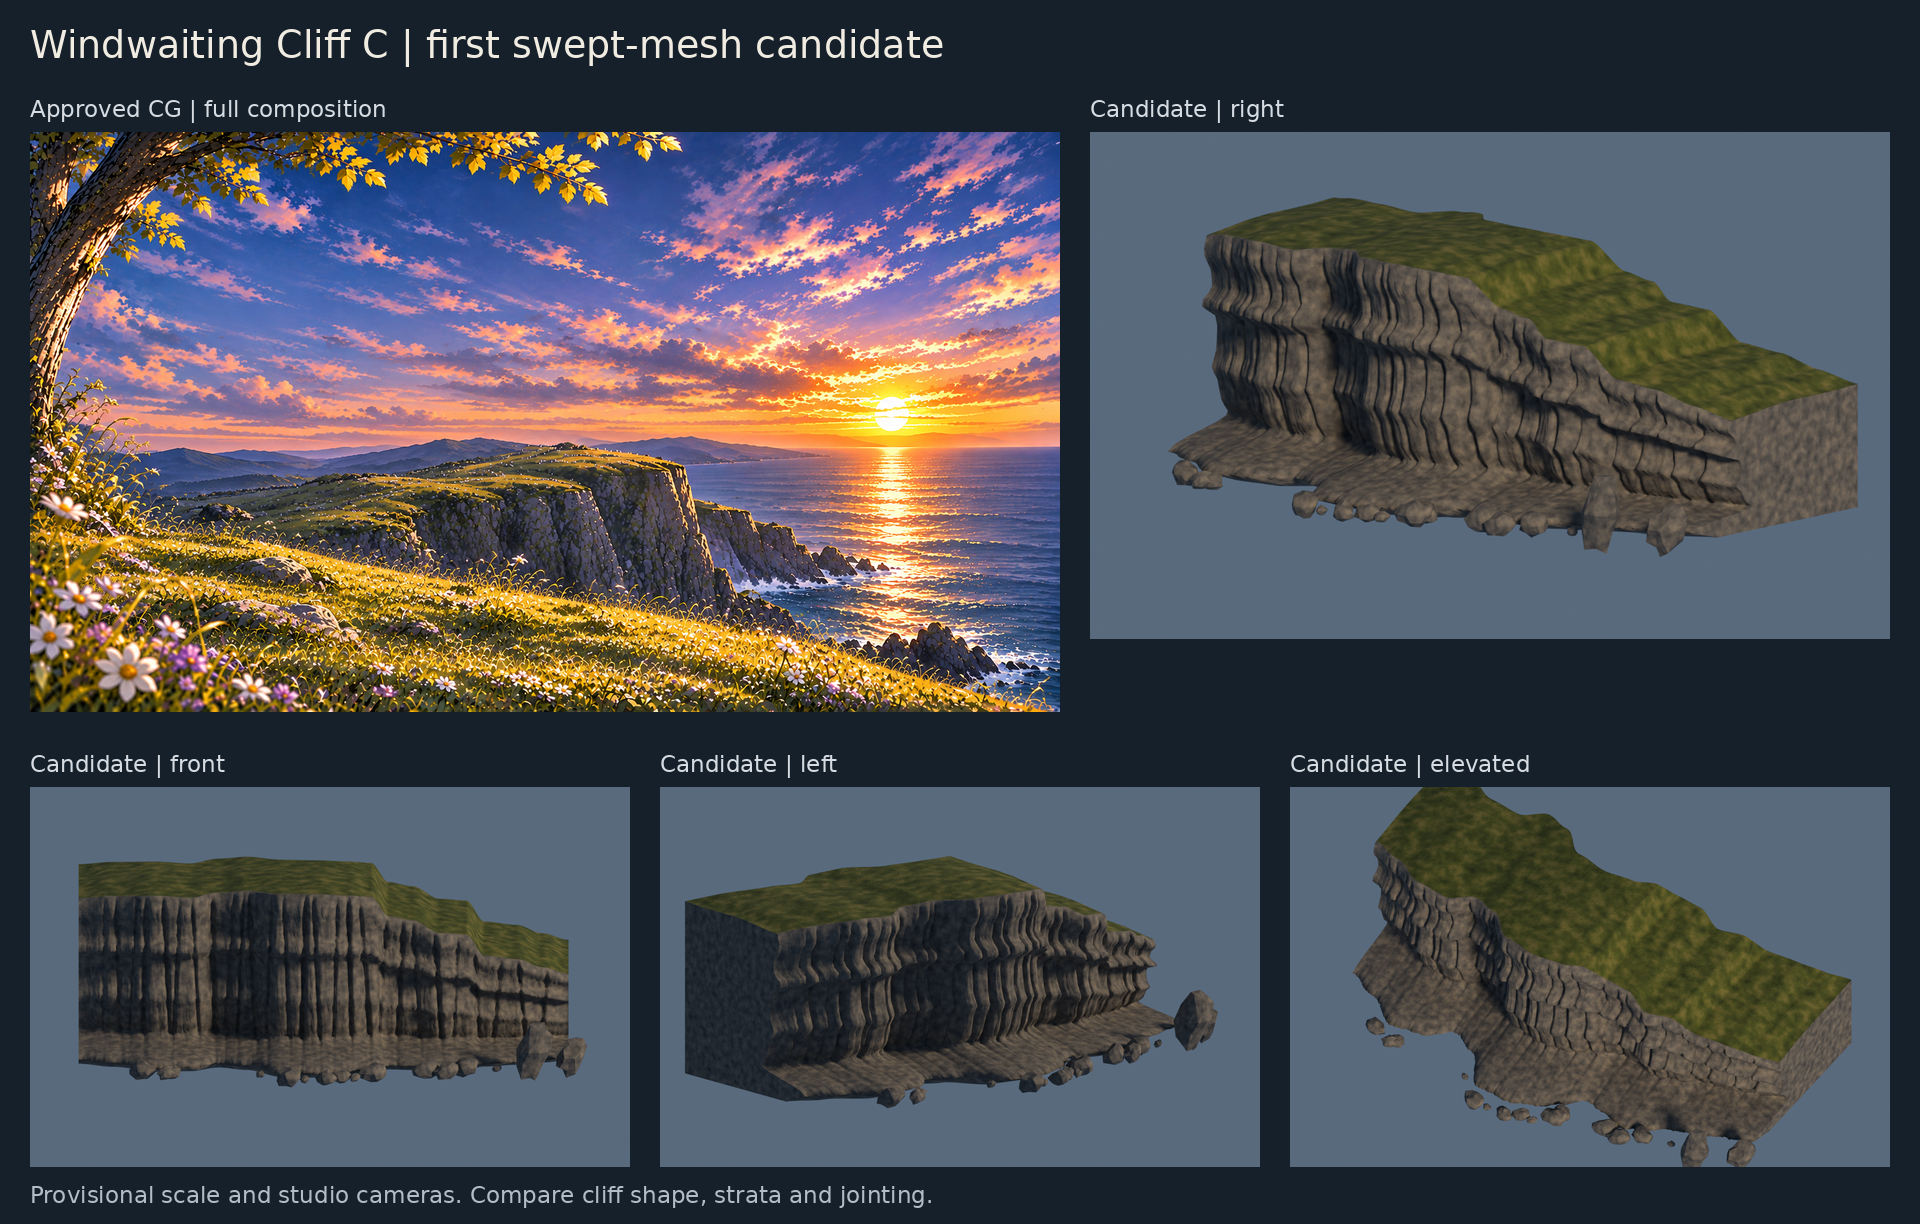
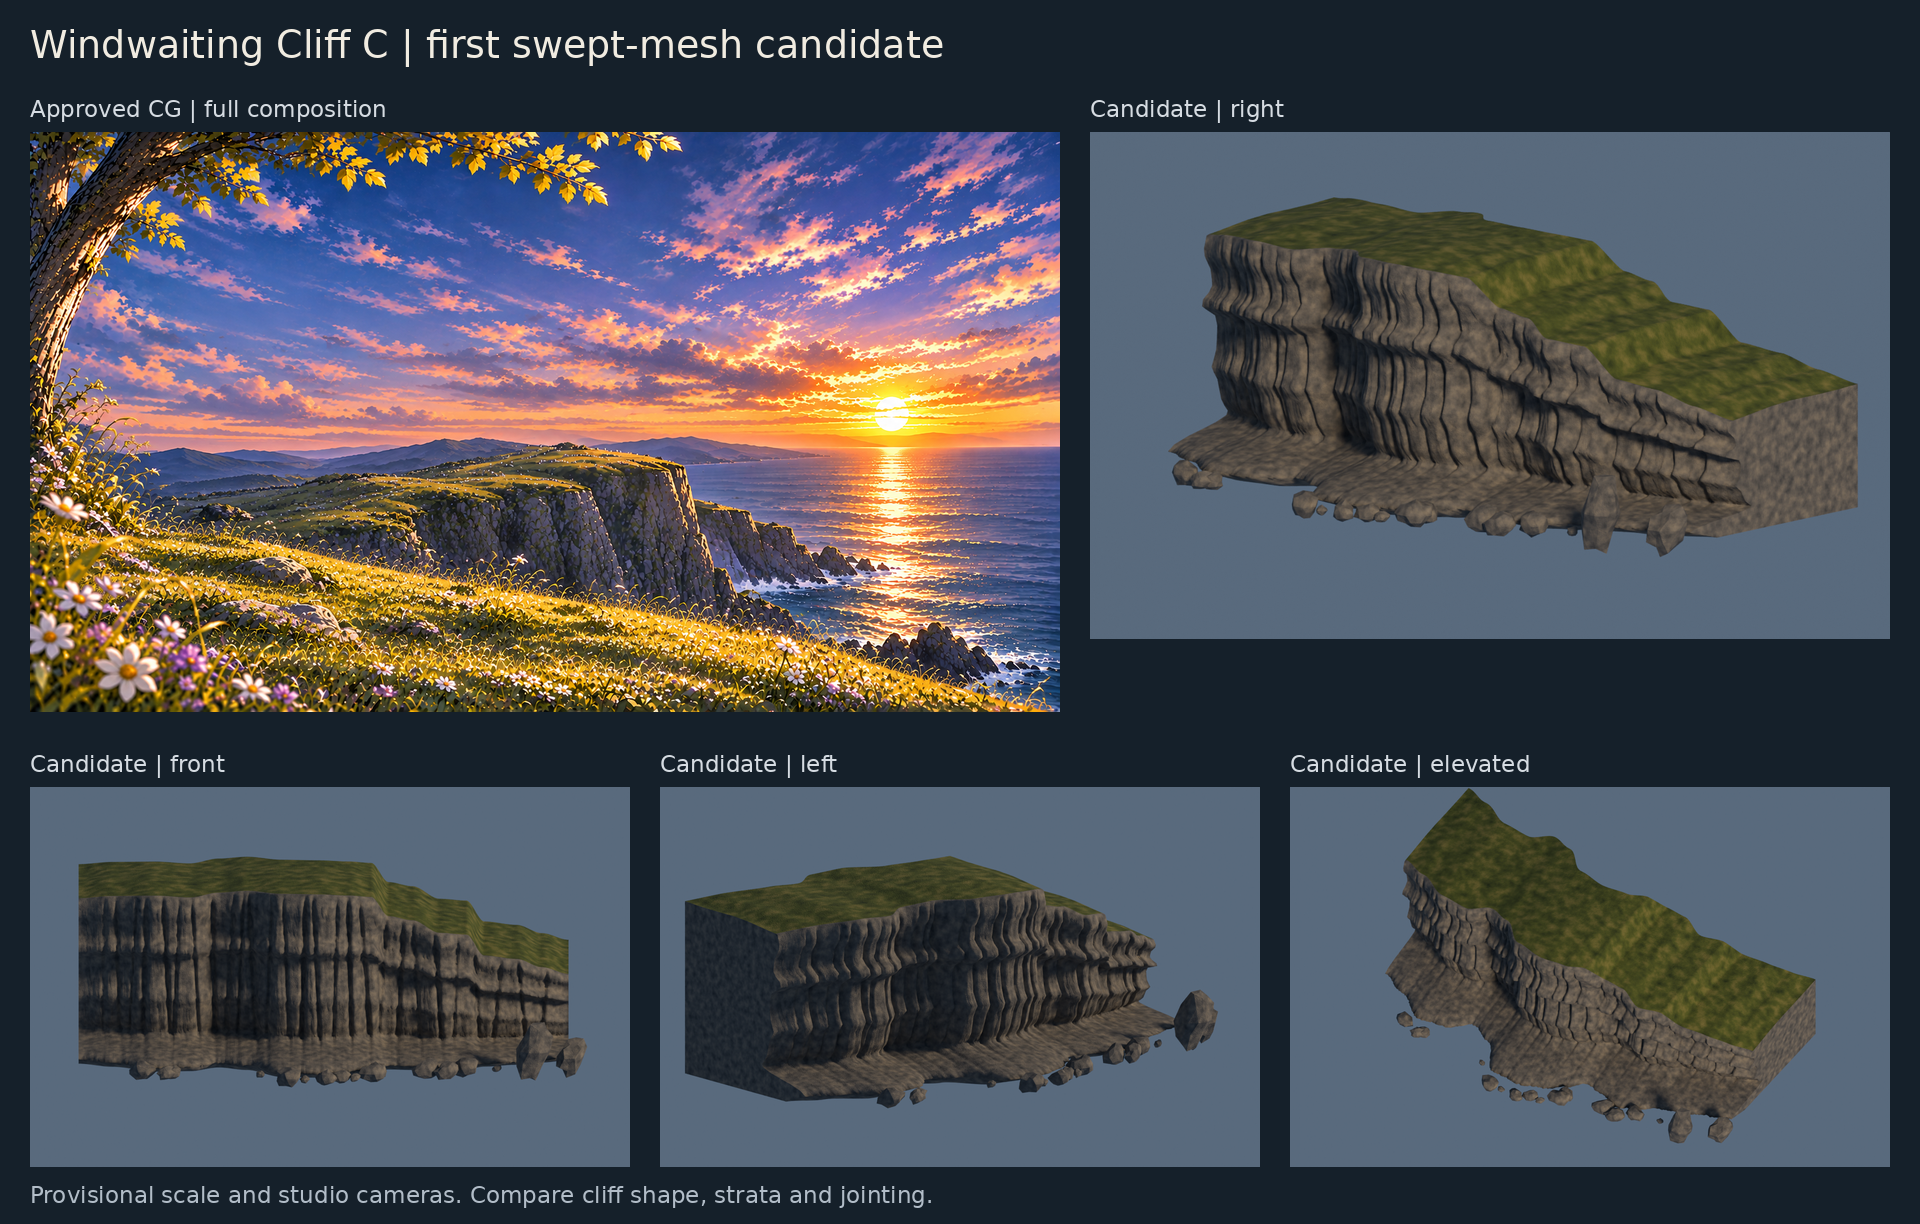
fix(lind): frame the full elevated cliff C view and refresh QA

Changed region(s): [[0.6875, 0.6209, 0.9688, 0.9624]]

diff --git a/tools/map_blender/lind/build_windwaiting_cliff_C_swept.py b/tools/map_blender/lind/build_windwaiting_cliff_C_swept.py
@@ -241,7 +241,7 @@ def build_scene():
     cameras = {}
     for name, position, scale in (
         ("front", (0,-27,8), 21), ("left", (-20,-24,10), 20.5),
-        ("right", (22,-25,9), 20.5), ("elevated", (12,-18,24), 22),
+        ("right", (22,-25,9), 20.5), ("elevated", (12,-18,24), 25.5),
     ):
         data = bpy.data.cameras.new(name)
         data.type, data.ortho_scale = "ORTHO", scale
